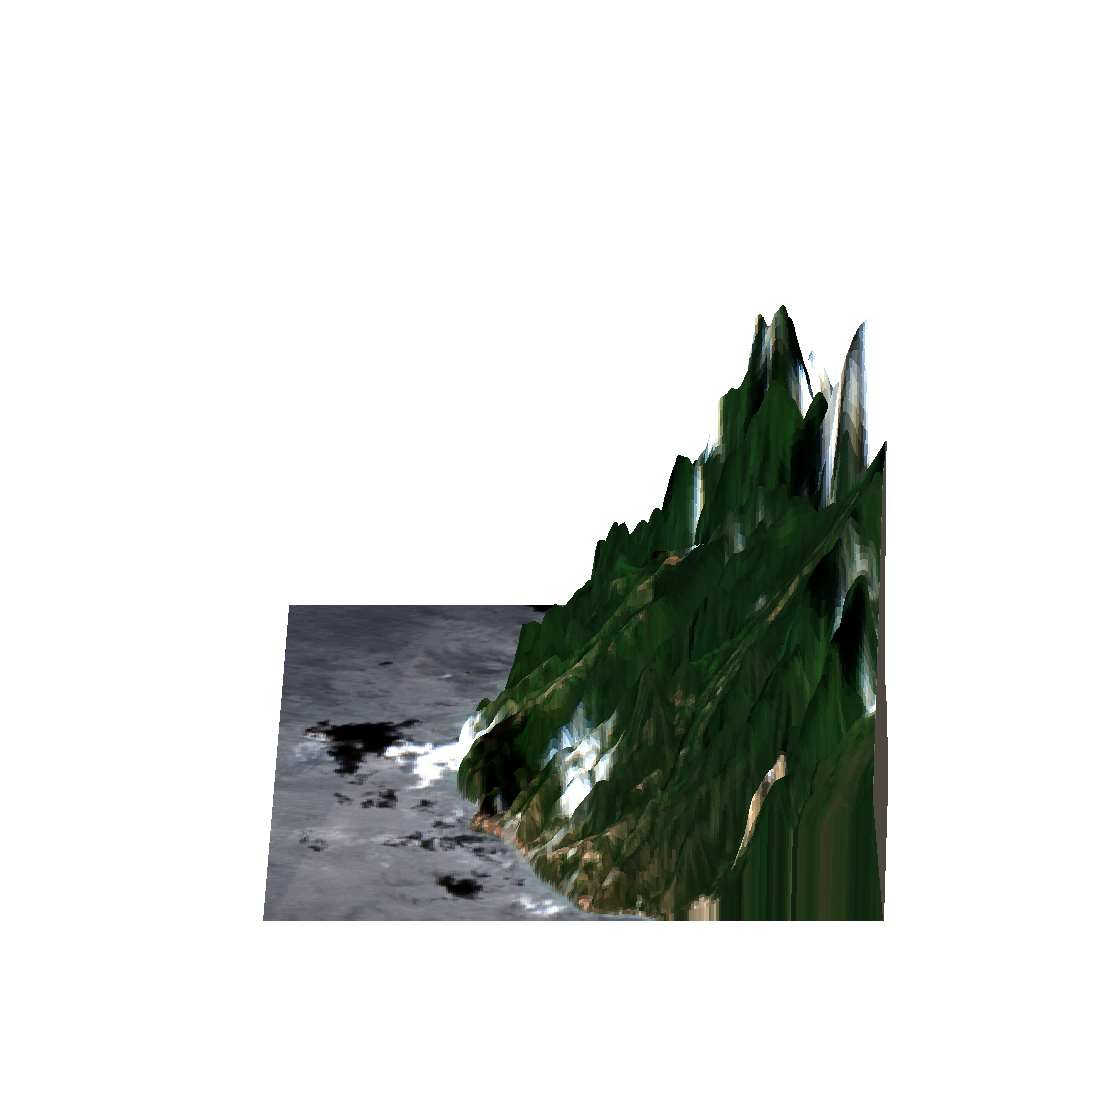
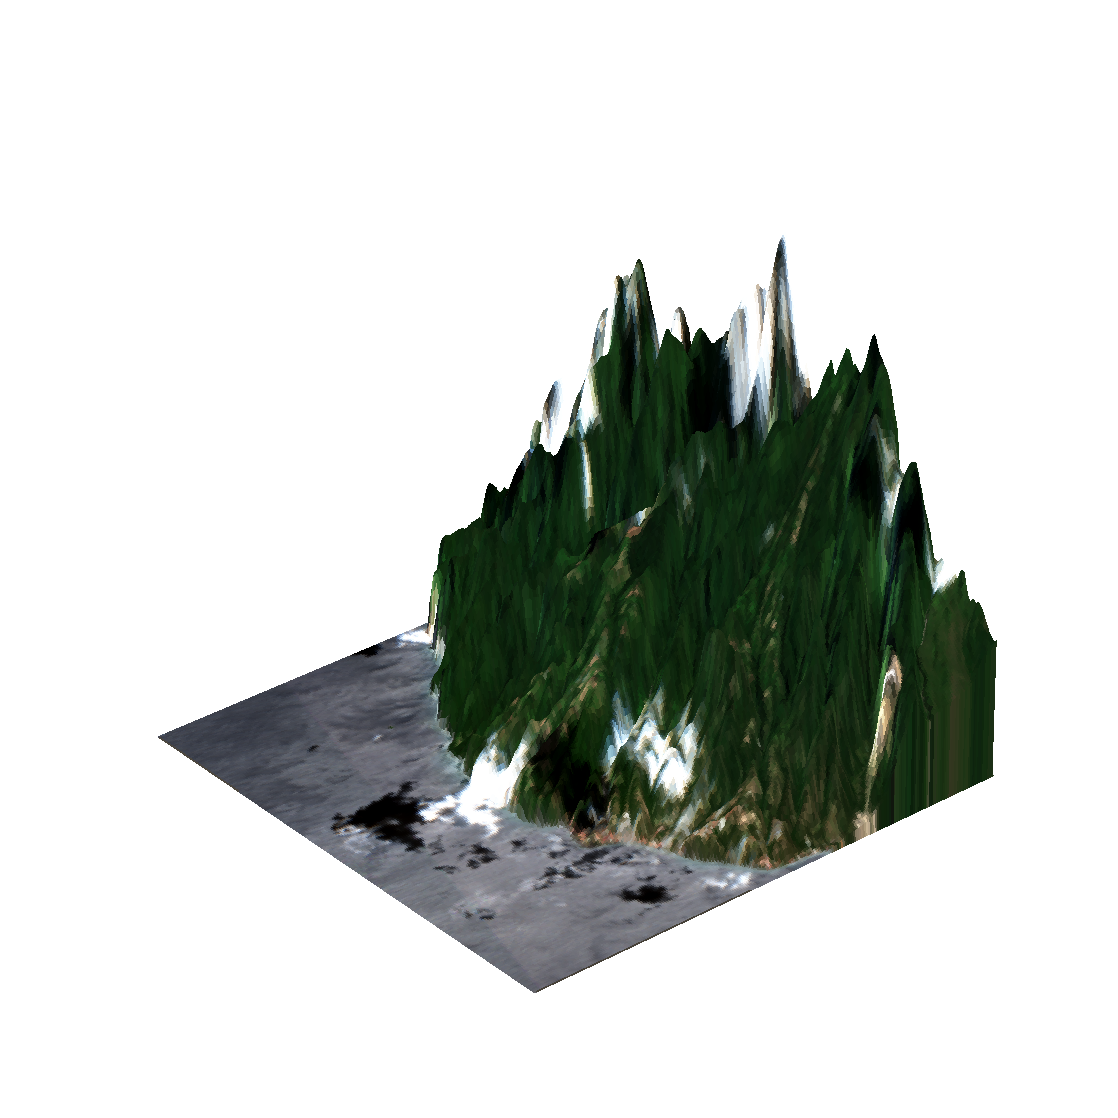
test

Changed region(s): [[0.1521, 0.2129, 0.9123, 0.8819]]

diff --git a/src/utils/diagramme.py b/src/utils/diagramme.py
@@ -293,15 +293,8 @@ def create_block_diagram(
         **top_surface_kwargs,
     )
 
-    # Base horizontale
-    ax.plot_surface(
-        xx,
-        yy,
-        np.full_like(zz_top, z_base),
-        color="#d7cfbe",
-        linewidth=0,
-        antialiased=False,
-    )
+    # Base horizontale retirée: avec mplot3d (tri de profondeur sans z-buffer),
+    # cette surface Z-constante peut apparaître "devant" le relief selon l'angle.
 
     # Faces latérales verticales pour fermer le volume.
     x0 = np.array([x[0], x[0]])

diff --git a/src/utils/test.py b/src/utils/test.py
@@ -13,6 +13,6 @@ create_block_diagram(dem_path,
                      use_texture=True, 
                      texture_path=sat_path, 
                      output_path="output.png", 
-                     azimuth=270, 
+                     azimuth=230, 
                      vertical_exaggeration=1
                      )
